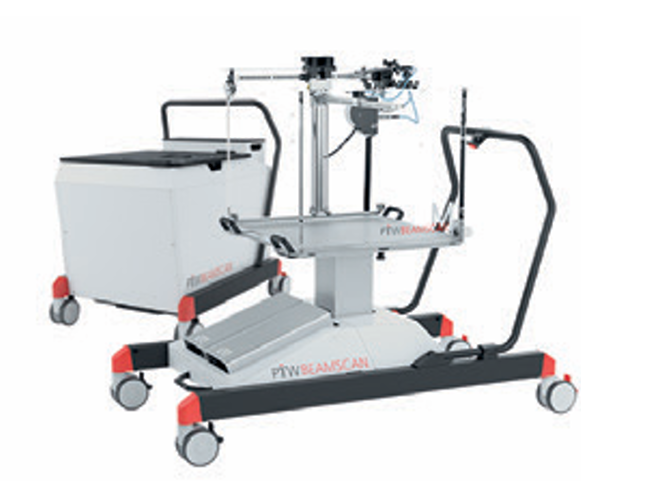
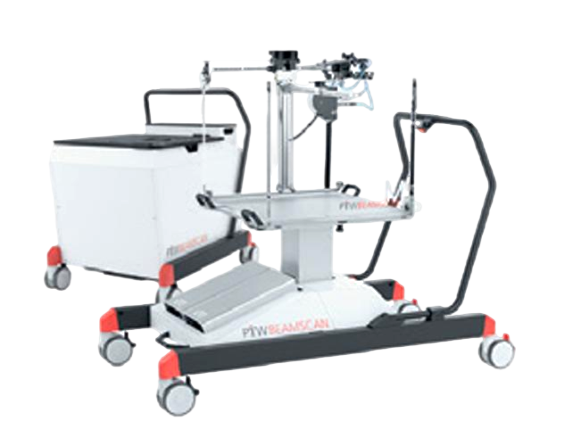
Replace BEAMSCAN variant images with background-removed versions
Speedo (wide all-in-one), Ringo (compact tall), Mobilo (modular+cart).
Gradient container bg so transparent PNGs float cleanly on each card.

diff --git a/app/partners/page.tsx b/app/partners/page.tsx
@@ -393,13 +393,13 @@ export default function PartnersPage() {
                 <AnimatedSection key={card.variant} delay={i * 0.08}>
                   <div className="bg-white rounded-2xl border border-ink-200/70 shadow-card hover:shadow-card-hover transition-all duration-300 overflow-hidden h-full flex flex-col">
                     {/* Product image */}
-                    <div className="bg-ink-50 border-b border-ink-200/60 p-6 flex items-center justify-center" style={{ aspectRatio: '4/3' }}>
+                    <div className="bg-gradient-to-b from-ink-50 to-white border-b border-ink-200/60 p-8 flex items-center justify-center" style={{ aspectRatio: '4/3' }}>
                       <Image
                         src={card.image}
                         alt={`BEAMSCAN® ${card.variant}`}
                         width={320}
                         height={240}
-                        className="object-contain max-h-full w-auto drop-shadow-sm"
+                        className="object-contain max-h-full w-auto"
                       />
                     </div>
                     <p className="text-[10px] text-ink-400 text-center pt-3 px-4">
